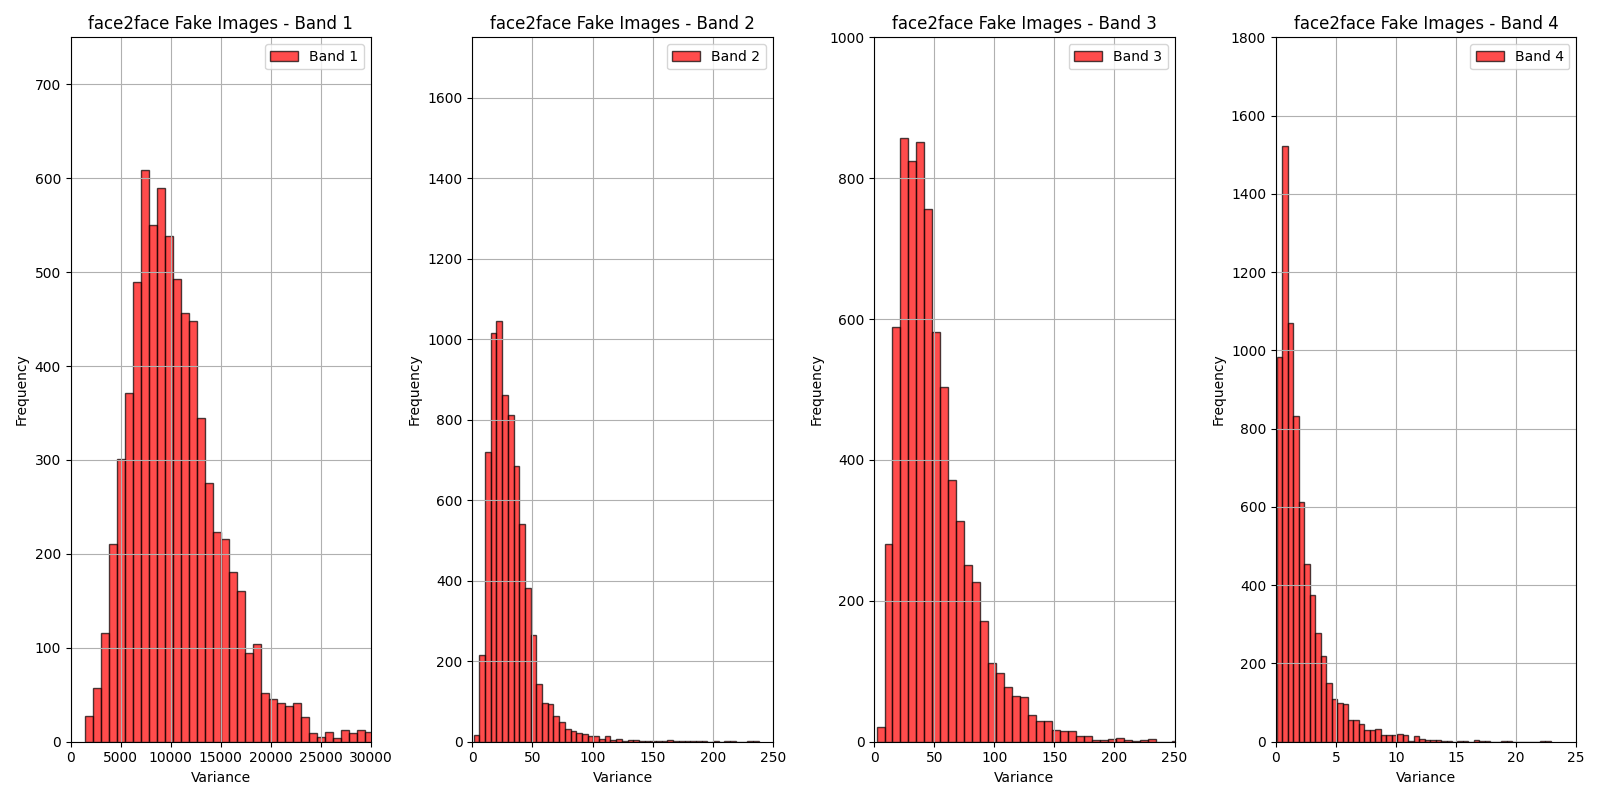
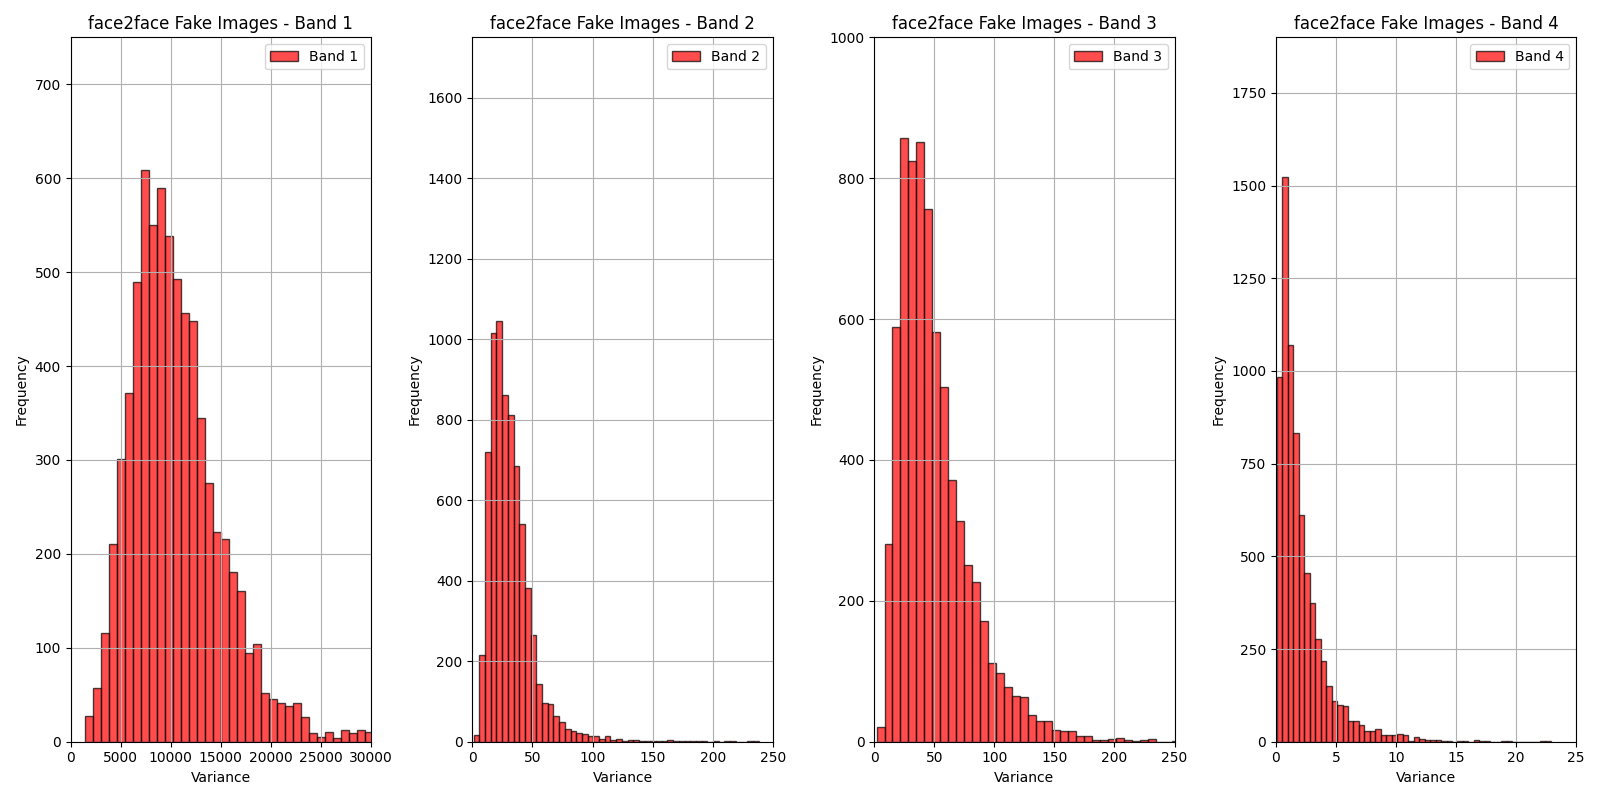
deepfake_variance

diff --git a/wavelet_plot.py b/wavelet_plot.py
@@ -1,5 +1,6 @@
 """Code to create wavelet packet plots."""
 
+from matplotlib.colors import PowerNorm
 import argparse
 
 import cv2
@@ -210,7 +211,6 @@ def main():
             fontsize=14,
             transform=axes[i, 0].transAxes,
         )
-
         abs_packets = np.abs(dec)
         for j in range(4):  # Loop through subbands
             if j == 0:  # LL band
@@ -225,7 +225,7 @@ def main():
             else:  # LH, HL, HH bands
                 axes[i, j + 1].imshow(
                     abs_packets[j],
-                    norm=colors.LogNorm(vmin=scale_min, vmax=scale_max),
+                    norm=PowerNorm(gamma=0.1),
                     cmap="gray",
                 )
             axes[i, j + 1].axis("off")

diff --git a/variance_plot.py b/variance_plot.py
@@ -143,7 +143,7 @@ def main():
         (0, 25),  # Band 4
     ]
     # Set a uniform y-axis limit (frequency) for all plots.
-    y_limits = [(0, 750), (0, 1750), (0, 1000), (0, 1800)]
+    y_limits = [(0, 750), (0, 1750), (0, 1000), (0, 1900)]
 
     global_real_variances = None
     for folder in data_prefix:
